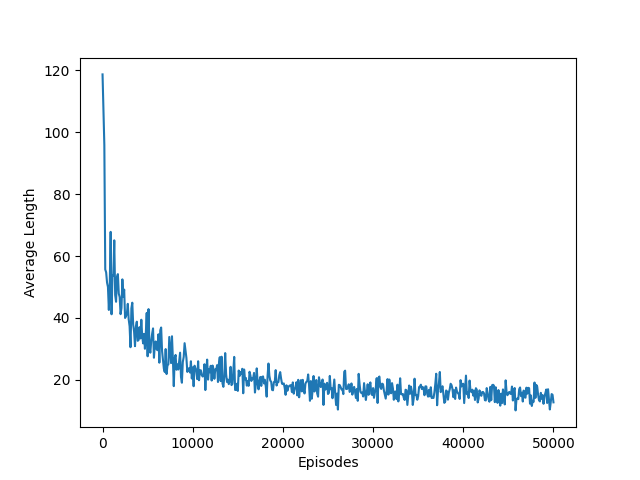
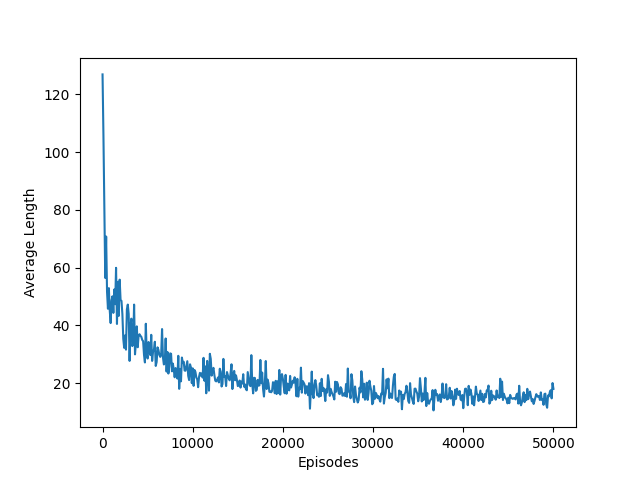
feat: Add Decentralized competitive hunting

diff --git a/MainMultiAgent.py b/MainMultiAgent.py
@@ -5,6 +5,7 @@ import matplotlib.pyplot as plt
 from Environments.MultiAgentEnvs.HunterAndPreyEnv import HunterAndPreyEnv
 from Environments.MultiAgentEnvs.CentralizedHunterEnv import CentralizedHunterEnv
 from Environments.MultiAgentEnvs.HunterEnv import HunterEnv
+from Environments.MultiAgentEnvs.HunterAndPreyEnv import HunterAndPreyEnv
 from MainSimpleEnvs import show, get_action_from_user
 
 from agents.q_learning import QLearning
@@ -74,6 +75,31 @@ def run_decentralized_cooperative(num_of_episodes):
             next_state, reward, done = env.step(action)
             agent_1.learn(state, action_1, reward[0], next_state, done)
             agent_2.learn(state, action_2, reward[1], next_state, done)
+            state = next_state
+            episode_length += 1
+        if (episode + 1) % 100 == 0 or episode == 0:
+            episode_lengths[(episode + 1) // 100] = episode_length
+    return episode_lengths
+
+def run_decentralized_competitive(num_of_episodes):
+    env = HunterAndPreyEnv()
+    agent_prey = QLearning(env.single_agent_action_space, gamma=0.95, alpha=0.1, epsilon=0.1, q_baseline=1)
+    agent_hunter_1 = QLearning(env.single_agent_action_space, gamma=0.95, alpha=0.1, epsilon=0.1, q_baseline=1)
+    agent_hunter_2 = QLearning(env.single_agent_action_space, gamma=0.95, alpha=0.1, epsilon=0.1, q_baseline=1)
+    episode_lengths = np.zeros(num_of_episodes // 100 + 1)
+    for episode in range(num_of_episodes):
+        state = env.reset()
+        done = False
+        episode_length = 0
+        while not done:
+            action_hunter_1 = agent_hunter_1.sample_action(state)
+            action_hunter_2 = agent_hunter_2.sample_action(state)
+            action_prey = agent_prey.sample_action(state)
+            action = (action_hunter_1, action_hunter_2, action_prey)
+            next_state, reward, done = env.step(action)
+            agent_hunter_1.learn(state, action_hunter_1, reward[0], next_state, done)
+            agent_hunter_2.learn(state, action_hunter_2, reward[1], next_state, done)
+            agent_prey.learn(state, action_prey, reward[2], next_state, done)
             state = next_state
             episode_length += 1
         if (episode + 1) % 100 == 0 or episode == 0:
